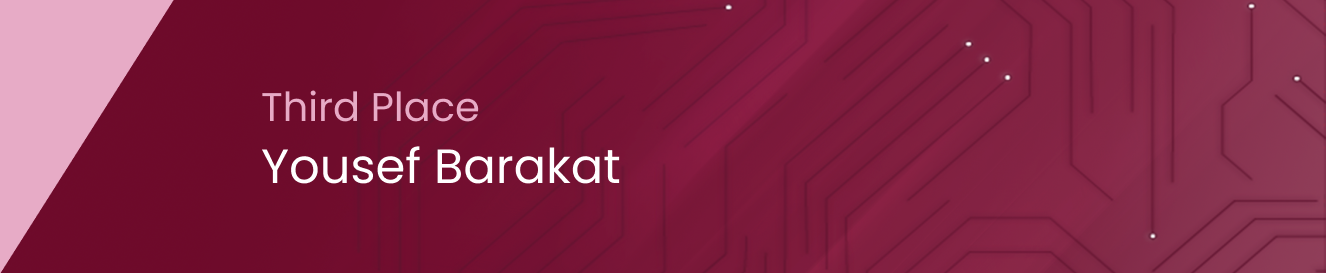
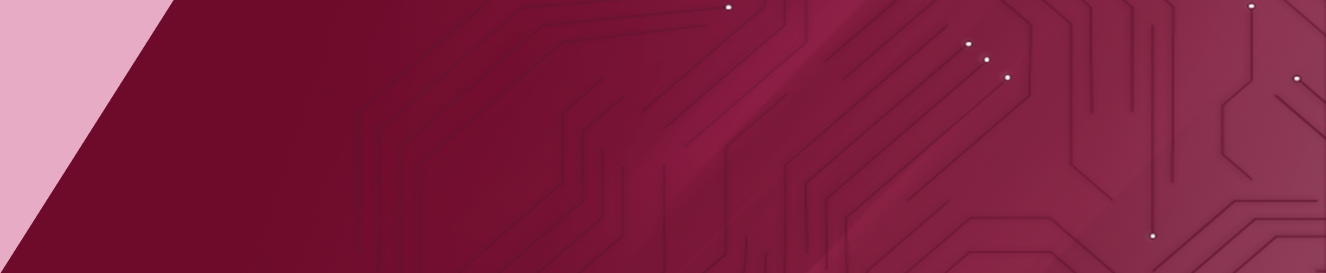
faet: create responsive design for achievements section

Changed region(s): [[0.1855, 0.5275, 0.4638, 0.674], [0.1855, 0.3223, 0.371, 0.4396]]

diff --git a/src/Components/HomeComponents/Achievements/AchievementsStyle.ts b/src/Components/HomeComponents/Achievements/AchievementsStyle.ts
@@ -5,16 +5,29 @@ export const AchievementsWrapper = styled(Box)(() => ({
   display: "flex",
   flexDirection: "column",
   gap: 24,
+  "@media (max-width: 600px)": {
+    gap: 16,
+  },
 }))
 
-export const AchievementsTitle = styled(Typography)(() => ({
+export const AchievementsTitle = styled(Typography)(({ theme }) => ({
   fontWeight: 600,
   textAlign: "center",
   marginBottom: "32px",
   marginTop: "32px",
-  fontSize: "42px",
+  fontSize: "52px",
   color: "#6E0B2B",
   textShadow: "2px 2px 4px rgba(0, 0, 0, 0.3)",
+  [theme.breakpoints.down("md")]: {
+    fontSize: "40px",
+    marginBottom: "24px",
+    marginTop: "24px",
+  },
+  [theme.breakpoints.down("sm")]: {
+    fontSize: "32px",
+    marginBottom: "16px",
+    marginTop: "16px",
+  },
 }))
 
 export const Card = styled(Box, {
@@ -33,6 +46,17 @@ export const Card = styled(Box, {
   justifyContent: "space-between",
   paddingLeft: theme.spacing(4),
   paddingRight: theme.spacing(4),
+
+  [theme.breakpoints.down("md")]: {
+    height: "180px",
+    paddingLeft: theme.spacing(3),
+    paddingRight: theme.spacing(3),
+  },
+  [theme.breakpoints.down("sm")]: {
+    height: "160px",
+    paddingLeft: theme.spacing(2),
+    paddingRight: theme.spacing(2),
+  },
 }))
 
 export const StudentImageLeft = styled("img")(({ theme }) => ({
@@ -43,6 +67,14 @@ export const StudentImageLeft = styled("img")(({ theme }) => ({
   left: theme.spacing(2),
   bottom: 0,
   zIndex: 2,
+  [theme.breakpoints.down("md")]: {
+    height: "160px",
+    left: theme.spacing(1),
+  },
+  [theme.breakpoints.down("sm")]: {
+    height: "140px",
+    left: theme.spacing(-3),
+  },
 }))
 
 export const StudentImageRight = styled("img")(({ theme }) => ({
@@ -53,19 +85,39 @@ export const StudentImageRight = styled("img")(({ theme }) => ({
   right: theme.spacing(2),
   bottom: 0,
   zIndex: 2,
+  [theme.breakpoints.down("md")]: {
+    height: "160px",
+    right: theme.spacing(1),
+  },
+  [theme.breakpoints.down("sm")]: {
+    height: "140px",
+    right: theme.spacing(0),
+  },
 }))
 
-export const ActionWrapper = styled(Box)<{ align: "left" | "right" }>(
-  ({ theme, align }) => ({
-    flex: 1, display: "flex",
-    flexDirection: "column",
-    alignItems: "flex-end",
-    justifyContent: "center",
-    gap: 1,
-    marginLeft: align === "right" ? "auto" : theme.spacing(30),
-    marginRight: align === "left" ? "auto" : theme.spacing(30),
-  })
-)
+export const ActionWrapper = styled(Box)<{ align: "left" | "right" }>(({ theme, align }) => ({
+  display: "flex",
+  flexDirection: "row",
+  alignItems: "center",
+  justifyContent: "flex-start",
+  gap: theme.spacing(10),
+  textAlign: "left",
+
+  marginLeft: align === "right" ? "auto" : theme.spacing(20),
+  marginRight: align === "left" ? "auto" : theme.spacing(40),
+
+  [theme.breakpoints.down("md")]: {
+    marginLeft: align === "right" ? "auto" : theme.spacing(6),
+    marginRight: align === "left" ? "auto" : theme.spacing(6),
+  },
+
+  [theme.breakpoints.down("sm")]: {
+    gap: theme.spacing(2),
+    marginLeft: align === "right" ? "auto" : theme.spacing(10),
+    marginRight: align === "left" ? "auto" : theme.spacing(15),
+  },
+}))
+
 
 export const ViewButton = styled(Button)(({ theme }) => ({
   color: "white",
@@ -74,8 +126,55 @@ export const ViewButton = styled(Button)(({ theme }) => ({
   padding: theme.spacing(0.5, 3),
   textTransform: "none",
   fontSize: "1rem",
+  whiteSpace: "nowrap",
   "&:hover": {
     borderColor: "white",
     backgroundColor: "rgba(255,255,255,0.1)",
   },
+  [theme.breakpoints.down("sm")]: {
+    fontSize: "0.875rem",
+    padding: theme.spacing(0.4, 2),
+    marginTop: "-20px",
+  },
+  "@media (max-width: 400px)": {
+    fontSize: "0.75rem",
+    padding: theme.spacing(0.3, 1.5),
+  },
 }))
+
+export const AchievementLabel = styled(Typography)(
+  ({ theme }) => ({
+    color: "#E7ABC6",
+    fontSize: "1.6rem",
+    fontWeight: 400,
+    marginBottom: theme.spacing(0.5),
+    textShadow: "1px 1px 2px rgba(0, 0, 0, 0.5)",
+
+    [theme.breakpoints.down("sm")]: {
+      fontSize: "0.875rem",
+    },
+    "@media (max-width: 400px)": {
+      fontSize: "0.75rem",
+    },
+  })
+)
+
+export const StudentName = styled(Typography)(
+  ({ theme }) => ({
+    color: "white",
+    fontSize: "2rem",
+    fontWeight: 600,
+    marginBottom: theme.spacing(1),
+    textShadow: "2px 2px 3px rgba(0, 0, 0, 0.5)",
+
+    [theme.breakpoints.down("md")]: {
+      fontSize: "1.5rem",
+    },
+    [theme.breakpoints.down("sm")]: {
+      fontSize: "1.25rem",
+    },
+    "@media (max-width: 400px)": {
+      fontSize: "1.1rem",
+    },
+  })
+)

diff --git a/src/components/homeComponents/Achievements/Achievements.tsx b/src/components/homeComponents/Achievements/Achievements.tsx
@@ -1,4 +1,4 @@
-import { Container } from "@mui/material"
+import { Box, Container } from "@mui/material"
 import {
   AchievementsWrapper,
   Card,
@@ -7,6 +7,8 @@ import {
   ActionWrapper,
   ViewButton,
   AchievementsTitle,
+  AchievementLabel,
+  StudentName,
 } from "./AchievementsStyle"
 
 const achievements = [
@@ -33,33 +35,27 @@ const achievements = [
 function Achievements() {
   return (
     <Container maxWidth="md">
-      <br /><br /><br /><br /><br />
-      <AchievementsTitle variant="h2">
-        Achievements and Awards
-      </AchievementsTitle>
+      <br />
+      <br />
+      <br />
+      <br />
+      <br />
+      <AchievementsTitle variant="h2">Achievements and Awards</AchievementsTitle>
       <AchievementsWrapper>
         {achievements.map((achievement, index) => {
           const isEven = index % 2 === 0
 
           return (
             <Card key={achievement.name} bg={achievement.backgroundImage}>
-              {!isEven && (
-                <StudentImageLeft
-                  src={achievement.studentImage}
-                  alt={achievement.name}
-                />
-              )}
+              {!isEven && <StudentImageLeft src={achievement.studentImage} alt={achievement.name} />}
               <ActionWrapper align={isEven ? "right" : "left"}>
-                <ViewButton variant="outlined">
-                  View Details
-                </ViewButton>
+                <Box display="flex" flexDirection="column">
+                  <AchievementLabel>{achievement.title}</AchievementLabel>
+                  <StudentName>{achievement.name}</StudentName>
+                </Box>
+                <ViewButton variant="outlined">View Details</ViewButton>
               </ActionWrapper>
-              {isEven && (
-                <StudentImageRight
-                  src={achievement.studentImage}
-                  alt={achievement.name}
-                />
-              )}
+              {isEven && <StudentImageRight src={achievement.studentImage} alt={achievement.name} />}
             </Card>
           )
         })}

diff --git a/src/Components/HomeComponents/Slider/sliderStyle.ts b/src/Components/HomeComponents/Slider/sliderStyle.ts
@@ -6,21 +6,21 @@ interface StyledSlideProps {
   overlay?: boolean
 }
 
-export const StyledSlide = styled(Box)<StyledSlideProps>(({ theme, bg, overlay }) => ({
+export const StyledSlide = styled(Box, {
+  shouldForwardProp: (prop) => prop !== "overlay",
+})<StyledSlideProps>(({ theme, bg, overlay }) => ({
   position: "relative",
-  backgroundImage: overlay ? `linear-gradient(rgba(0,0,0,0.5), rgba(0,0,0,0.5)), url(${bg})` : `url(${bg})`,
+  backgroundImage: overlay
+    ? `linear-gradient(rgba(0,0,0,0.5), rgba(0,0,0,0.5)), url(${bg})`
+    : `url(${bg})`,
   display: "flex",
   alignItems: "center",
   backgroundSize: "cover",
   backgroundPosition: "center",
   height: "530px",
-  [theme.breakpoints.down("md")]: {
-    height: "400px",
-  },
-  [theme.breakpoints.down("sm")]: {
-    height: "500px",
-  },
-}))
+  [theme.breakpoints.down("md")]: { height: "400px" },
+  [theme.breakpoints.down("sm")]: { height: "500px" },
+}));
 
 export const ContentWrapper = styled(Box)(({ theme }) => ({
   position: "relative",

diff --git a/src/Components/HomeComponents/Footer/footerStyle.ts b/src/Components/HomeComponents/Footer/footerStyle.ts
@@ -16,7 +16,7 @@ export const BottomBar = styled(Box)({
 export const BrandTitle = styled(Typography)({
   color: "#6E0B2A",
   fontWeight: 700,
-  fontSize: "1.5rem",
+  fontSize: "2rem",
   marginBottom: "12px",
 });
 
@@ -32,7 +32,6 @@ export const ColumnTitle = styled(Typography)({
   fontSize: "0.95rem",
   color: "#6E0B2A",
   marginBottom: "16px",
-  // marginRight: "25px",
 });
 
 export const FooterLink = styled(Link)({
